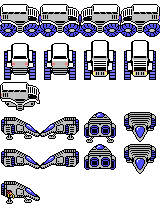
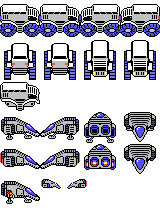
first draft of the gfx for the traveling cutscene

diff --git a/src/a4engine3/A4EngineApp.ts b/src/a4engine3/A4EngineApp.ts
@@ -10,7 +10,7 @@ Note (santi):
 
 */
 
-var SHRDLU_VERSION:string = "Demo v2.8"
+var SHRDLU_VERSION:string = "Demo v3.0"
 
 var A4ENGINE_STATE_INTRO:number = 0
 var A4ENGINE_STATE_TITLESCREEN:number = 1
